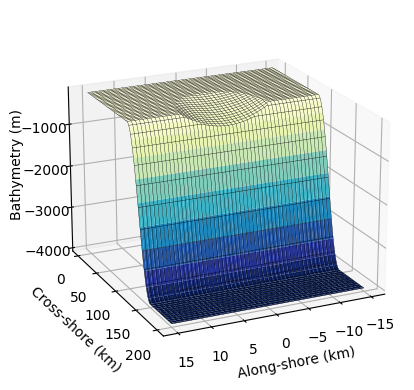
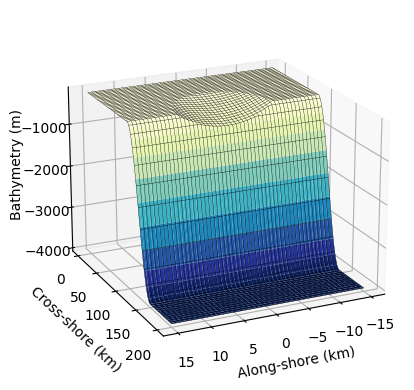
Renewed model Figures

Changed region(s): [[0.5507, 0.2154, 0.6667, 0.3077], [0.4058, 0.2462, 0.5217, 0.3385]]

diff --git a/barotropicSWEs/Configuration/topography_sdg_revision.py b/barotropicSWEs/Configuration/topography_sdg_revision.py
@@ -151,9 +151,9 @@ if __name__ == "__main__":
     class pars:
         L_S = 50  # slope width (km)
         L_C = 100  # shelf width (km)
-        W = 5  # (half) canyon width AT SHELF BREAK (km)
-        alpha = 0.5  # 0<alpha<1: canyon occupies this proportion of shelf (ND)
-        beta = 0.2  # 0<beta<1: canyon occupies this proportion of slope (ND)
+        W = 15  # (half) canyon width AT SHELF BREAK (km)
+        alpha = 0.35  # 0<alpha<1: canyon occupies this proportion of shelf (ND)
+        beta = 0.5  # 0<beta<1: canyon occupies this proportion of slope (ND)
         L_CC, L_CS = alpha * L_C, beta * L_S
         L = L_CC + L_CS
         h1 = 200  # shelf depth (m)
@@ -200,6 +200,6 @@ if __name__ == "__main__":
                       color="black", linewidth=0.25)
     ax.view_init(20, 65)
     fig.tight_layout()
-    pt.show()
-    # save_plot(fig, ax, f'Canyon_alpha={pars.alpha}_beta={pars.beta}',
-    #           folder_name="Topographic Profiles")
+    # pt.show()
+    save_plot(fig, ax, f'Canyon_alpha={pars.alpha}_beta={pars.beta}',
+              folder_name="Topographic Profiles")
